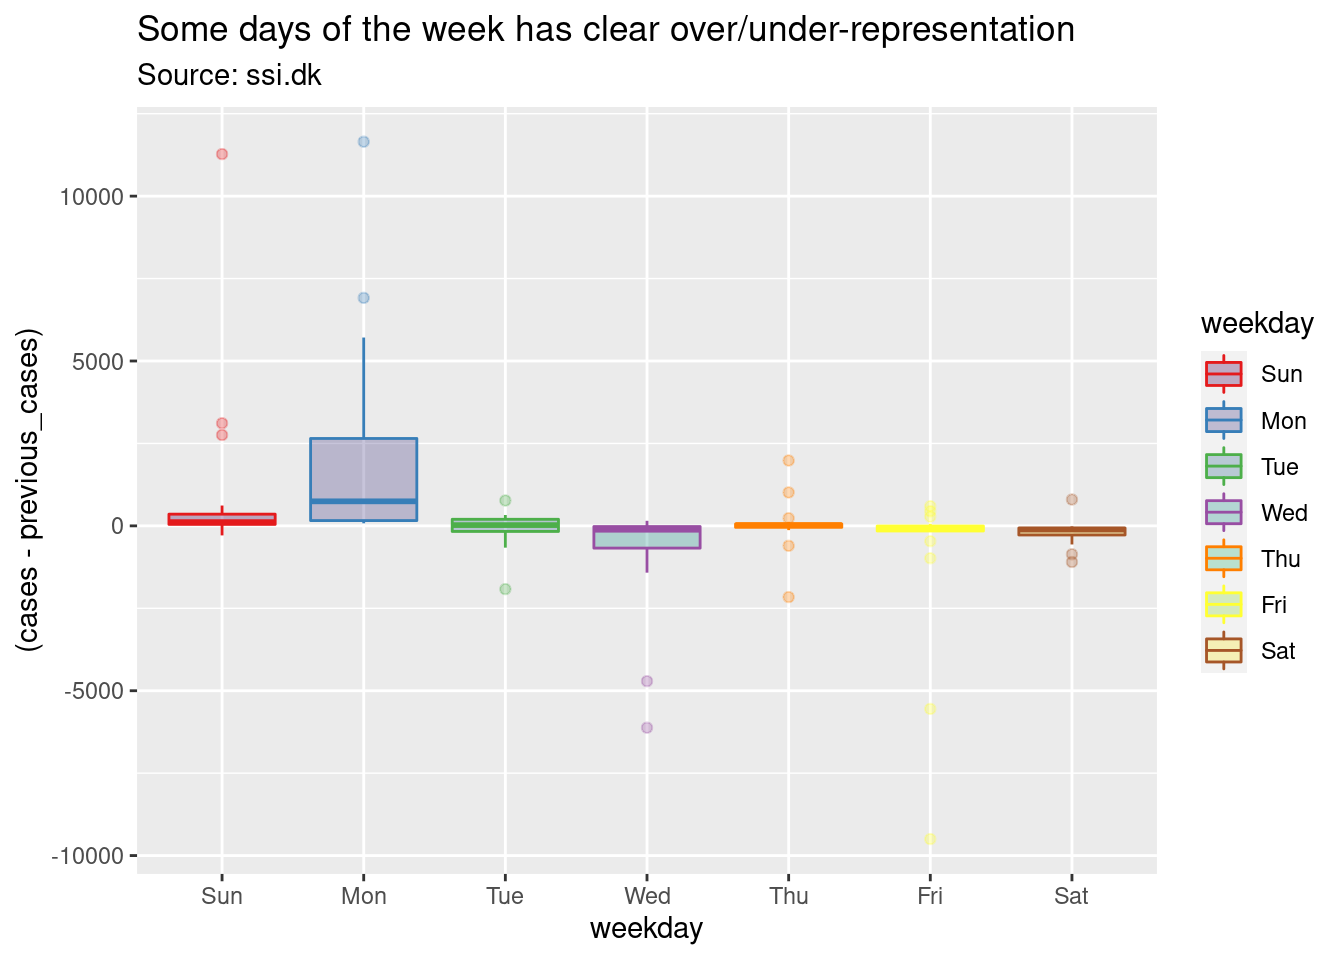
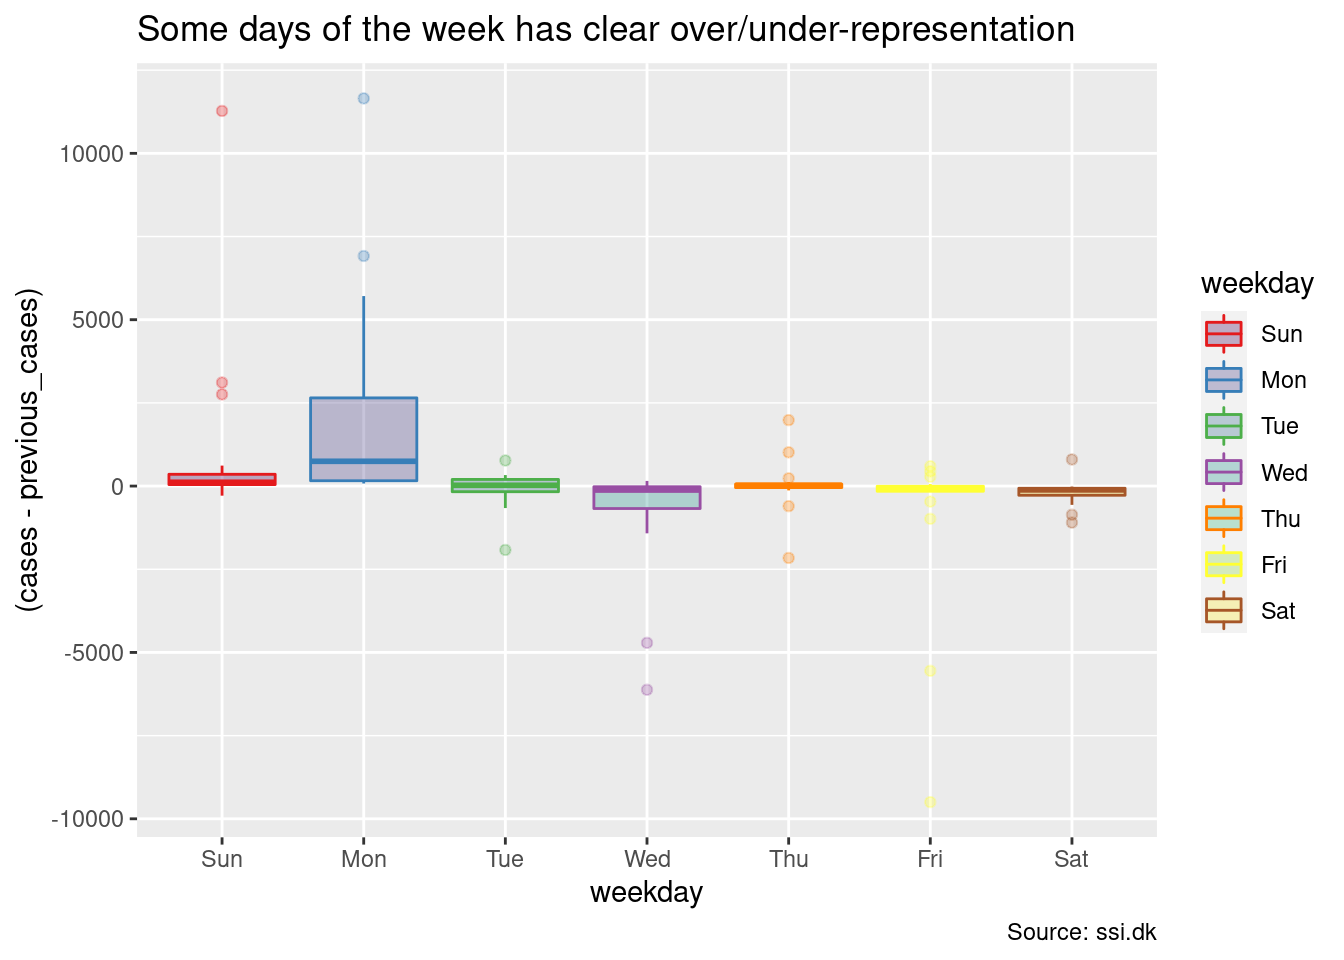
Improve text, update plots.

diff --git a/docs/index.html b/docs/index.html
@@ -268,8 +268,8 @@ $(document).ready(function () {
 <li><a href="#initial-setup">Initial setup</a></li>
 <li><a href="#ingesting-data">Ingesting data</a>
 <ul>
-<li><a href="#key-numbers">Key Numbers</a></li>
-<li><a href="#weekly-key-data-split-by-age">Weekly key data split by age</a></li>
+<li><a href="#daily-key-figures">Daily key figures</a></li>
+<li><a href="#weekly-key-figures-split-by-age">Weekly key figures split by age</a></li>
 </ul></li>
 <li><a href="#country-wide-data">Country-wide data</a>
 <ul>
@@ -304,8 +304,14 @@ library(lubridate)</code></pre>
 </div>
 <div id="ingesting-data" class="section level2">
 <h2>Ingesting data</h2>
-<p>SSIs data are in “CSV” files. The CSV format isn’t well specified, and the variant used by SSI is a variant in which the <code>;</code> character is used as a separator. This is relatively common in countries which uses the <code>,</code> as a separator in numbers, in order to avoid conflicts. R’s <code>readr</code> package have a way to handle this particular CSV variant.</p>
-<p>Furthermore, the files contain danish characters. They are encoded in the ISO8859-1(5) format, so we’ll have to do something about this. The obvious way is to turn the encoding into UTF-8, which is the modern encoding of Unicode. Once transformed into UTF-8, we can read the data into R.</p>
+<p>The overall strategy follows a 3-step process:</p>
+<ul>
+<li><em>Parse</em> the incoming data, providing a proper interpretation of what it means.</li>
+<li><em>Transform</em> the data, making it amenable for data-visualization.</li>
+<li><em>Visualize</em> the data, aiding the understanding of patterns, evaluations, and structure.</li>
+</ul>
+<p>SSIs data are in “CSV” files. The CSV format isn’t generally well specified, and the variant used by SSI is one in which the <code>;</code> character is used as a separator. This is relatively common in countries using the <code>,</code> as a separator in numbers. R’s <code>readr</code> package, loaded by <code>tidyverse</code>, have a way to handle this particular CSV variant.</p>
+<p>Furthermore, the files contain Danish characters. They are encoded in the ISO8859-1(5) format, so we’ll have to do something about this. The obvious way is to turn the encoding into UTF-8, which is the modern encoding of Unicode.</p>
 <p>We’ll capture this conversion into a function <code>read_data</code>. It uses <a href="https://en.wikipedia.org/wiki/Iconv">iconv</a> to convert between encodings. The function also allows us to designate the types of the columns in the file we are trying to read.</p>
 <pre class="r"><code>read_data &lt;- function(f, col_types) {
     raw &lt;- readBin(f, &quot;raw&quot;, n = file.size(f))
@@ -315,16 +321,17 @@ library(lubridate)</code></pre>
     res &lt;- read_csv2(x_utf8, col_types=col_types)
     return(res)
 }</code></pre>
-<div id="key-numbers" class="section level3">
-<h3>Key Numbers</h3>
-<p>SSI provides a file with key numbers from the Covid-19 data gathered by them. This file is updated 5 days a week. We already unzipped the file in a directory, so lets expand our <code>date</code> constant and get a file name</p>
+<div id="daily-key-figures" class="section level3">
+<h3>Daily key figures</h3>
+<p>SSI provides a file with key figures. This file is updated 5 days a week. Since we already have set a target date, we can compute the file with key figures in it by substitution</p>
 <pre class="r"><code>file &lt;- sprintf(&quot;./data/%s/Regionalt_DB/03_bekraeftede_tilfaelde_doede_indlagte_pr_dag_pr_koen.csv&quot;, date)</code></pre>
-<p>We can read this file via our function. It will return a so-called <code>tibble</code> which is a table, or data frame, of the data in the file. We also provide initial types for each of the columns. In CSV, data is untyped. We would like to add type information to columns because it simplifies our later plotting. Many tools in R know how to handle data by its type. Hence, if we have the right type, tools will naturally understand how to process the data at hand.</p>
+<p>We can read this file via our function. It will return a so-called <code>tibble</code> which is a table, or data frame, of the data in the file. We also provide initial types for each of the columns, because CSV data is untyped.</p>
+<p>We would like to add type information to columns because it simplifies our later plotting. Many tools in R know how to vary it’s handling, based on the type.</p>
 <p>In the following we use the following types:</p>
 <ul>
 <li><code>col_date()</code> is a date, with no particular timestamp.</li>
-<li><code>col_double()</code> is a floating point number. Because the numbers are “smallish”, using a double float for this carries enough precision for the integers we have.</li>
-<li><code>col_factor()</code> is used the define factor values. These are small (discrete) sets of values, in this case the different Regions of denmark.</li>
+<li><code>col_double()</code> is a floating point number. This allows parses of numbers in general, while still handling integers adequately.</li>
+<li><code>col_factor()</code> is used the define factor values. These are small (discrete) sets of values, in this case the different Regions of Denmark.</li>
 </ul>
 <pre class="r"><code>data &lt;- read_data(file, col_types=cols(&#39;Region&#39; = col_factor(),
                                        &#39;Prøvetagningsdato&#39; = col_date(),
@@ -377,11 +384,13 @@ data</code></pre>
 ##  9 Hovedstaden 2020-03-03 M          3      0                1
 ## 10 Hovedstaden 2020-03-04 M          2      0                0
 ## # … with 6,515 more rows</code></pre>
-<p>More data handling. We are interested in somewhat recent data. Covid-19 has been around for a while. We are mostly interested in the recent development which is that Delta was dominant, and Omicron came into the space. Let’s put a low-end cutoff down:</p>
+<p>Provide a low cut-off. We are interested in the recent period with Omicron, rather than the full duration of Covid-19.</p>
 <pre class="r"><code>lo_cutoff &lt;- &#39;2021-09-01&#39;</code></pre>
-<p>The hi-end of that cutoff, we set to two days before the maximal date in our data set</p>
+<p>The high end of that cutoff, we set to two days before the maximal date in our data set</p>
 <pre class="r"><code>hi_cutoff &lt;- max(data$date) - days(2)</code></pre>
-<p>Rationale: when you have a reported number in the news, it’s generally a number from the cumulative count. The actual date of testing is often lagging by 24h to 48h. We are interested in getting the right test-date, even if it means we have a 2 days lag. Hence, we assume that recent data are still “forming”. A typical example is that the count for the current date is very close to 0, as no tests have come in yet. In 2-3 days time, this number rises to the right value, as data is retroactively updated.</p>
+<p>Rationale: News outlets generally report a cumulative count increase . The actual date of testing is often lagging by 24h to 48h. We are interested in getting the right test-date, even if it means we have a 2 days lag. Hence, we assume that recent data are still “forming”.</p>
+<p>A typical example is that the count for the current date is very close to 0, as no tests have come in yet. In 2-3 days time, this number rises to the right value, as data is retroactively updated.</p>
+<p>Using the cumulative count means that the test date is being moved to some other date, and this will skew any kind of trend-line attempt.</p>
 <p>Filtering the data set is easy:</p>
 <pre class="r"><code>data &lt;- data %&gt;% filter(date &gt;= lo_cutoff, date &lt; hi_cutoff)
 
@@ -403,8 +412,8 @@ summary</code></pre>
 ## 10 Syddanmark  2021-09-01 M         41      0                1
 ## # … with 1,320 more rows</code></pre>
 </div>
-<div id="weekly-key-data-split-by-age" class="section level3">
-<h3>Weekly key data split by age</h3>
+<div id="weekly-key-figures-split-by-age" class="section level3">
+<h3>Weekly key figures split by age</h3>
 <p>As in the case with the general data, we can define the file of interest</p>
 <pre class="r"><code>file &lt;- sprintf(&quot;./data/%s/Regionalt_DB/18_fnkt_alder_uge_testede_positive_nyindlagte.csv&quot;, date)</code></pre>
 <p>We can reuse our data reader from before.</p>
@@ -417,7 +426,7 @@ summary</code></pre>
                                        &#39;Antal positive&#39; = col_double()
                                       ))</code></pre>
 <pre><code>## ℹ Using &quot;&#39;,&#39;&quot; as decimal and &quot;&#39;.&#39;&quot; as grouping mark. Use `read_delim()` for more control.</code></pre>
-<p>First, let’s do the same thing as before. Rename the columns to something more amenable to further handling</p>
+<p>Rename the columns to something more amenable to further handling</p>
 <pre class="r"><code>data &lt;- data %&gt;% rename(week = &#39;Uge&#39;,
                         ageGroup = &#39;Aldersgruppe&#39;,
                         tested_100k = &#39;Testede pr. 100.000 borgere&#39;,
@@ -440,7 +449,7 @@ data</code></pre>
 ##  9 2020-W04 80+                0          0                 0      0     0
 ## 10 2020-W05 65-79              0          0                 0      1     0
 ## # … with 885 more rows</code></pre>
-<p>Take a look at the <code>week</code> column. It reports a year, and a week number. We’ll need to handle this, by converting this into a date. We’ll do that by defining a fixup function. If we have a string such as <code>2020-W04</code>, it means the 4th week of 2020. But to get a date, we need a day inside the week to use as the day-of-week. So first, we turn the string into <code>2020-W04-1</code>, then we send it through <code>strptime()</code>, which is a general time-parsing function.</p>
+<p>Take a look at the <code>week</code> column. It reports a year, and a week number. We’ll need to handle this, by converting this into a date. We’ll do that by defining a fixup function. If we have a string such as <code>2020-W04</code>, it means the 4th week of 2020. To get a date, we need a day inside the week to use as the day-of-week. So we turn the string into <code>2020-W04-1</code>, then send it through <code>strptime()</code>, a general time-parsing function.</p>
 <pre class="r"><code>fixup_week &lt;- function(s) {
     # For strptime to do its work correctly, it must know a day of the week. Here, we
     # use the 1st day of the week as a anchoring point, but in principle any day could
@@ -449,7 +458,7 @@ data</code></pre>
     res &lt;- strptime(x, format=&quot;%Y-W%W-%u&quot;)
     return(as.POSIXct(res))
 }</code></pre>
-<p>With the function defined, we can <code>mutate</code> our data set by the fixup, setting each value in the table to be the fixup’ed value. While here, we can also cut off the older values since we are mostly interested in the recent data, as in the above example.</p>
+<p>With the function defined, we can <code>mutate</code> our data set by the fixup, setting each value in the table to be the fixup’ed value. While here, also cut off the older values since we are mostly interested in the recent data.</p>
 <pre class="r"><code># Apply this to the data set
 data &lt;- data %&gt;% mutate(week = fixup_week(week))
 data &lt;- data %&gt;% filter(week &gt;= lo_cutoff)</code></pre>
@@ -459,13 +468,13 @@ data &lt;- data %&gt;% filter(week &gt;= lo_cutoff)</code></pre>
 </div>
 <div id="country-wide-data" class="section level2">
 <h2>Country-wide data</h2>
-<p>First, lets analyze the country-wide data set. Because data is given by each region, we must first summarize the data by summing the data from each region per day. This means we group by the <code>date</code> and then sum</p>
+<p>Let’s analyze the country-wide data set. Because data is given by each region, we must first summarize the data by summing the data from each region per day. This means we group by the <code>date</code> and then sum</p>
 <pre class="r"><code># Group by date, so we can get rid of region/gender
-country &lt;- summary %&gt;% group_by(date)
-# Summarize the data by counting
-country &lt;- country %&gt;% summarize(cases = sum(cases),
-                                 deaths = sum(deaths),
-                                 hospitalizations = sum(hospitalizations))</code></pre>
+country &lt;- summary %&gt;%
+    group_by(date) %&gt;%
+    summarize(cases = sum(cases),
+              deaths = sum(deaths),
+              hospitalizations = sum(hospitalizations))</code></pre>
 <p>We also want a lag-column. That is, for each date, we want the count from the day preceding it. This allows us to compute the change for each day.</p>
 <p>We also add a new column <code>weekday</code>, which computes the day of the week. This allows us to visualize weekly periodic fluctuations in reporting. We might not know the cause of such noise in the data set, but it is still important to show patterns when they occur.</p>
 <pre class="r"><code># Create a lag column for cases
@@ -475,14 +484,14 @@ country &lt;- country %&gt;% mutate(previous_cases = lag(cases, order_by=date),
 <h3>Country-wide visualizations</h3>
 <p>At this point, we have readied our data, and can start plotting. First, lets plot the number of cases we have in Denmark, and supply a trend-line for the cases</p>
 <p>(<em>Aside:</em> We use ggplot2 to visualize. ggplot uses a <em>grammar</em> of graphical layers as its plotting strategy. For instance <code>p + geom_point()</code> is a form of “addition” where <code>p</code> is a plot and <code>geom_point()</code> is an x-y scatterplot of points. So the <code>+</code> means “add another layer on top of our plot.”</p>
-<p>The other keypoint is that of the <code>aes(..)</code> function. This is an <em>aesthetic</em>-mapping. For example, the expression <code>aes(x=date, y=cases)</code> means to map the <code>date</code> column to the x-axis, and the <code>cases</code> column to the y-axis. Likewise, <code>aes(color = weekday)</code> maps a tables <code>weekday</code> column into a “color dimension.”)</p>
+<p>The other key idea is that of the <code>aes(..)</code> function. This is an <em>aesthetic</em>-mapping. For example, the expression <code>aes(x=date, y=cases)</code> maps the <code>date</code> column to the x-axis, and the <code>cases</code> column to the y-axis. Likewise, <code>aes(color = weekday)</code> maps a tables <code>weekday</code> column into a “color dimension.”)</p>
 <p>The trend-line is computed by <a href="https://en.wikipedia.org/wiki/Local_regression">Local Regression</a>, or LOESS (LOcally Estimated Scatterplot Smoothing). This is a generalization of a moving average over the data. The <code>span = .3</code> parameter sets the bandwidth to 30% of the data.</p>
 <p>LOESS is a trade-off where we throw computational power at the problem to obtain good smoothed trend lines. It would be impossible to do by hand, but we have access to modern computers with ample computational power.</p>
-<pre class="r"><code>plot_country &lt;- function(p, title, subtitle) {
+<pre class="r"><code>plot_country &lt;- function(p, title, caption) {
     p + geom_point(aes(color = weekday), size=2) +
         geom_smooth(method = &#39;loess&#39;, span = .3) +
         scale_colour_brewer(palette=&quot;Set2&quot;) +
-        labs(title = title, subtitle = subtitle)
+        labs(title = title, caption = caption)
 }
 
 p &lt;- ggplot(country, aes(x=date, y=cases))
@@ -503,10 +512,10 @@ plot_country(p, &quot;Trendline for Covid-19: new deaths in Denmark&quot;, &quot
 <p>The next plot computes the <em>change</em> from the day before to the next day. A positive number means “There were this many more cases today.” A negative number means “There were this fewer cases today.” This shows how data is getting more noisy once Omicron takes over and more tests are being made.</p>
 <p>As we shall see, this noise mostly comes from a single region in Denmark.</p>
 <pre class="r"><code># Lagged data computes the difference to the day before.
-plot_country_lag &lt;- function(p, title, subtitle) {
+plot_country_lag &lt;- function(p, title, caption) {
     p + geom_point(size=1.5) +
         scale_colour_brewer(palette=&quot;Set2&quot;) +
-        labs(title = title, subtitle = subtitle)
+        labs(title = title, caption = caption)
 }
 
 p &lt;- ggplot(country, aes(x=date, y=(cases - previous_cases), color=weekday))
@@ -518,10 +527,10 @@ plot_country_lag(p, &quot;As Omicron took over, noise entered data in Denmark&qu
 <li><code>Monday</code> tends to have large positive change.</li>
 <li><code>Wednesday</code> tend to have a smaller decrease.</li>
 </ul>
-<pre class="r"><code>plot_day_of_week &lt;- function(p, title, subtitle) {
+<pre class="r"><code>plot_day_of_week &lt;- function(p, title, caption) {
     p + scale_colour_brewer(palette=&quot;Set1&quot;) +
         stat_boxplot(aes(fill=weekday, color=weekday), alpha=0.3) +
-        labs(title = title, subtitle = subtitle)
+        labs(title = title, caption = caption)
 }
 
 p &lt;- ggplot(country, aes(x=weekday, y=(cases - previous_cases)))
@@ -532,18 +541,21 @@ plot_day_of_week(p, &quot;Some days of the week has clear over/under-representat
 </div>
 <div id="regional-data" class="section level2">
 <h2>Regional data</h2>
-<pre class="r"><code>regions &lt;- summary %&gt;% group_by(date, region)
-regions &lt;- regions %&gt;% summarize(cases = sum(cases), deaths = sum(deaths), hospitalizations = sum(hospitalizations))</code></pre>
+<p>Compute the aggregate over regions, rather than for the whole country</p>
+<pre class="r"><code>regions &lt;- summary %&gt;%
+  group_by(date, region) %&gt;%
+  summarize(cases = sum(cases), deaths = sum(deaths), hospitalizations = sum(hospitalizations))</code></pre>
 <pre><code>## `summarise()` has grouped output by &#39;date&#39;. You can override using the `.groups` argument.</code></pre>
 <pre class="r"><code>regions &lt;- regions %&gt;% mutate(weekday = lubridate::wday(date, label=TRUE), order_by=date)</code></pre>
 <div id="regional-visualizations" class="section level3">
 <h3>Regional visualizations</h3>
-<pre class="r"><code>plot_regions &lt;- function(p, title, subtitle) {
+<p>To visualize the regional data, we use a facet grid, splitting on region. As we see, there are a lot of noise data generated by “Hovedstaden” (corresponding to the general area around Copenhagen). This region is generating most cases, by far.</p>
+<pre class="r"><code>plot_regions &lt;- function(p, title, caption) {
     p + geom_point(aes(color=region)) +
         geom_smooth(method = &#39;loess&#39;, span = 0.3) +
         facet_grid(rows=vars(region)) +
         scale_colour_brewer(palette=&quot;Set2&quot;) +
-        labs(title = title, subtitle = subtitle)
+        labs(title = title, caption = caption)
 }
 
 p &lt;- ggplot(regions, aes(x=date, y=cases))
@@ -554,18 +566,27 @@ plot_regions(p, &quot;Copenhagen-general area (Hovedstaden) contributes most of 
 </div>
 <div id="weekly-data" class="section level2">
 <h2>Weekly data</h2>
+<p>As with the case for daily key figures, we can also use the weekly key figures. An important point of this data set is that the <code>ageGroup</code> are not a continous variable, but a discrete set of groups, non-uniformly spaced in between:</p>
+<pre class="r"><code>levels(factor(weekly$ageGroup))</code></pre>
+<pre><code>## [1] &quot;0-2&quot;   &quot;3-5&quot;   &quot;6-11&quot;  &quot;12-15&quot; &quot;16-19&quot; &quot;20-39&quot; &quot;40-64&quot; &quot;65-79&quot; &quot;80+&quot;</code></pre>
+<p>Why this is so is a good question. My bet is that it captures schooling groups among the youngest, splits adults into younger and older adults pivoting on 40, and handles the elderly in two large groups as well. However, it also means direct comparison between groups is somewhat dangerous.</p>
 <div id="visualizations" class="section level3">
 <h3>Visualizations</h3>
-<pre class="r"><code>plot_age_cases &lt;- function(p, title, subtitle) {
-    p + geom_tile() +
+<p>We can provide a simple raster plot, where <code>x</code> represents the week, <code>y</code> represents the (discrete) age group and the fill represents the count we are interested in. In principle, the age groups have different sizes, but we can adjust for the size difference in groups by looking at “x per 100.000”.</p>
+<pre class="r"><code>plot_age_cases &lt;- function(p, title, caption) {
+    p + geom_raster() +
         scale_fill_continuous(type = &quot;viridis&quot;) +
-        labs(title = title, subtitle = subtitle)
+        labs(title = title, caption = caption, x=&quot;Week&quot;, y = &quot;Age Group&quot;)
 }</code></pre>
-<pre class="r"><code>p &lt;- ggplot(weekly, aes(x=week, y=ageGroup, fill=cases_100k))
-plot_age_cases(p, &quot;Covid-19 cases per 100k in Denmark, by age group&quot;, &quot;Source: ssi.dk&quot;)</code></pre>
+<pre class="r"><code>p &lt;- ggplot(weekly, aes(x=week, y=ageGroup, fill=cases_100k, height=ageBand/24))
+plot_age_cases(p, &quot;Schools were closed on 15th Dec 2021, cases dropped&quot;, &quot;Source: ssi.dk&quot;)</code></pre>
+<pre><code>## Warning: Raster pixels are placed at uneven horizontal intervals and will be
+## shifted. Consider using geom_tile() instead.</code></pre>
 <p><img src="index_files/figure-html/age-group-cases-1.png" width="672" /></p>
 <pre class="r"><code>p &lt;- ggplot(weekly, aes(x=week, y=ageGroup, fill=tested_100k))
-plot_age_cases(p, &quot;Covid-19 tests per 100k in Denmark, by age group&quot;, &quot;Source: ssi.dk&quot;)</code></pre>
+plot_age_cases(p, &quot;Schools were closed on 15th Dec 2021, tests dropped&quot;, &quot;Source: ssi.dk&quot;)</code></pre>
+<pre><code>## Warning: Raster pixels are placed at uneven horizontal intervals and will be
+## shifted. Consider using geom_tile() instead.</code></pre>
 <p><img src="index_files/figure-html/age-group-tests-1.png" width="672" /></p>
 </div>
 </div>
